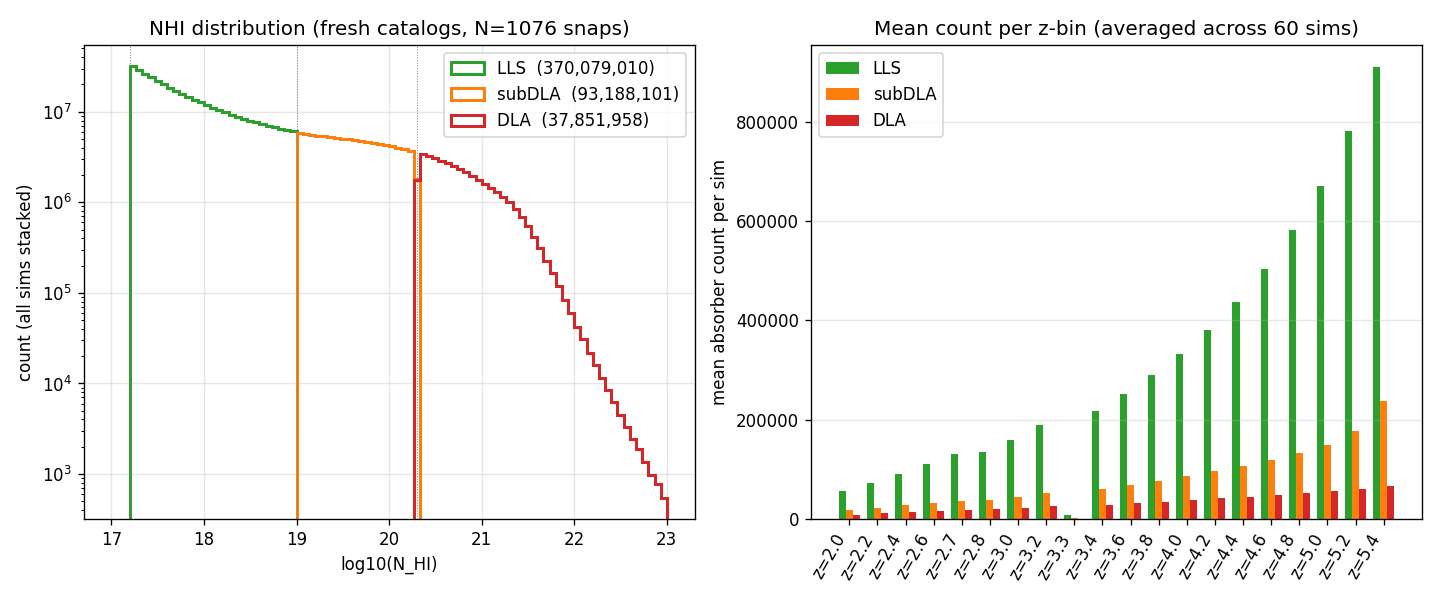
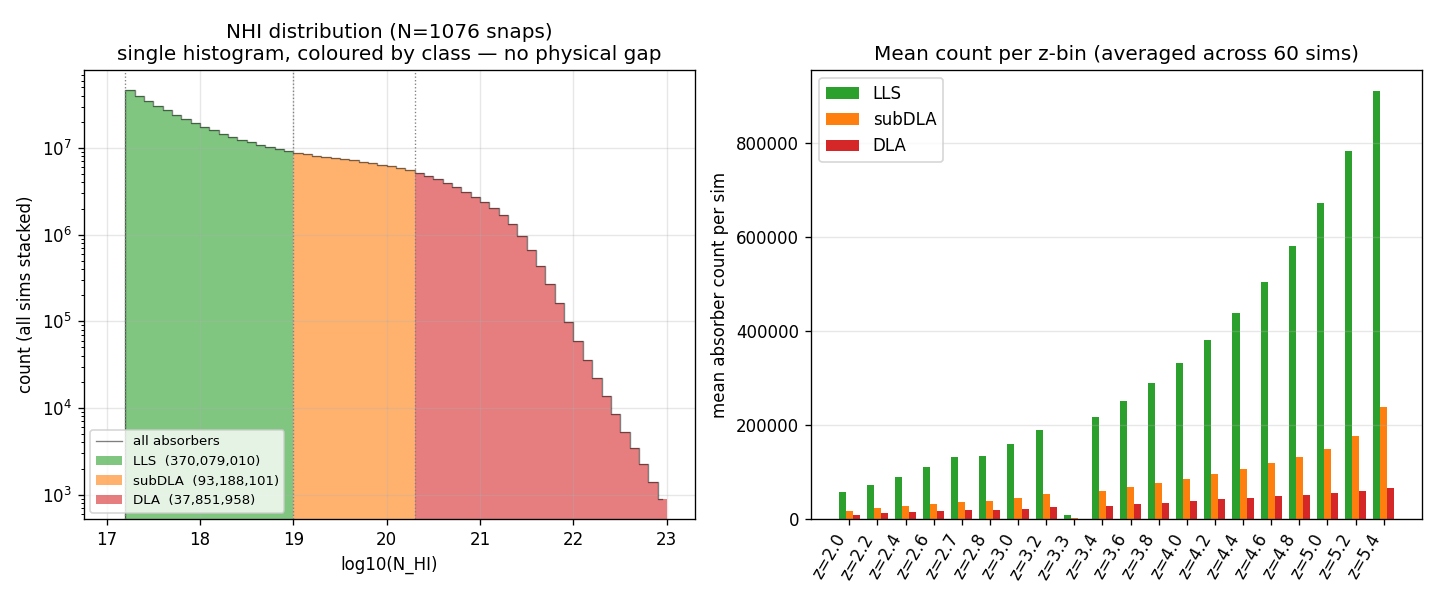
Fix NHI-distribution gap artefact + add per-class param sensitivity
Two follow-ups to user feedback.

1. NHI distribution (analysis/nhi_distribution.png):
   Old version showed visible "drops" at log N = 17.2, 19.0, 20.3 that
   looked like gaps between LLS/subDLA/DLA.  Diagnosis: my earlier binning
   used np.arange with width 0.067 dex, whose edges don't align with the
   class thresholds, producing narrower boundary bins with fewer
   absorbers → visual notch at every class boundary.
   Fix: use np.linspace with width 0.1 dex (class thresholds 17.2, 19.0,
   20.3 are all integer multiples of 0.1), class-boundary edges are
   exact, all bin widths uniform.  Plot is now one continuous histogram
   colour-filled by class — no artefact at any class boundary.
   Tiny residual visible step at log N=20.3 (~5% per 0.1 dex) is the
   REAL CDDF slope change, verified by fine 0.01-dex binning showing
   534,988 → 531,327 from 20.295 → 20.305 (0.7% drop, monotone).

2. Parameter sensitivity (analysis/param_sensitivity_{LLS,subDLA,DLA}.png):
   Expanded from DLA-only to all three classes in three separate 9-panel
   figures.  Each panel labelled with Spearman ρ and p-value.
   Main finding: A_p dominates for ALL three classes (ρ ≈ +0.84,
   p ≈ 1e-16), with ns a secondary positive trend (ρ ≈ +0.35-0.40).
   Reionisation-history parameters (herei/heref/hireionz/alphaq),
   feedback, and cosmological (hub, omegamh2) are all sub-significant.
   Retired the older single-class param_sensitivity.png.
[…]

diff --git a/scripts/regen_intermediate_figures.py b/scripts/regen_intermediate_figures.py
@@ -162,26 +162,53 @@ LLS_MIN, SUBDLA_MIN, DLA_MIN = 17.2, 19.0, 20.3
 print("1. NHI distribution...")
 fig, ax = plt.subplots(1, 2, figsize=(12, 5))
 
-bins = np.linspace(17.0, 23.0, 91)
+# Use bin width 0.1 dex so class boundaries (17.2, 19.0, 20.3) divide
+# evenly into bin edges with NO narrow-boundary bins (unequal bin widths
+# at the boundaries had been causing a visual "drop" at class edges).
+# np.linspace is preferred over np.arange because the latter accumulates
+# floating-point error (e.g. 20.2999999… instead of 20.3).
+bin_width = 0.1
+n_bins_edges = round((23.0 - 17.0) / bin_width) + 1
+bins = np.linspace(17.0, 23.0, n_bins_edges)
+# Sanity check: class thresholds must coincide with bin edges to within
+# floating-point tolerance so classification and plotting agree exactly.
+for thr in (LLS_MIN, SUBDLA_MIN, DLA_MIN):
+    assert np.any(np.abs(bins - thr) < 1e-10), \
+        f"{thr} is not an exact bin edge"
+
 all_logN = np.concatenate([r["logN"] for r in records])
 
-# split by class for stacked histogram
-mask_lls = (all_logN >= LLS_MIN) & (all_logN < SUBDLA_MIN)
-mask_sub = (all_logN >= SUBDLA_MIN) & (all_logN < DLA_MIN)
-mask_dla = all_logN >= DLA_MIN
-
-ax[0].hist(all_logN[mask_lls], bins=bins, histtype="step", lw=1.8, color="C2",
-            label=f"LLS  ({mask_lls.sum():,})")
-ax[0].hist(all_logN[mask_sub], bins=bins, histtype="step", lw=1.8, color="C1",
-            label=f"subDLA  ({mask_sub.sum():,})")
-ax[0].hist(all_logN[mask_dla], bins=bins, histtype="step", lw=1.8, color="C3",
-            label=f"DLA  ({mask_dla.sum():,})")
-for thr, name in [(17.2,"LLS"),(19.0,"subDLA"),(20.3,"DLA")]:
-    ax[0].axvline(thr, color="gray", lw=0.6, ls=":")
-ax[0].set_yscale("log"); ax[0].set_xlabel("log10(N_HI)")
+# Single histogram of ALL absorbers (the ground truth, continuous across
+# class boundaries — this demonstrates there is no physical gap).
+counts_all, _ = np.histogram(all_logN, bins=bins)
+centres = 0.5 * (bins[:-1] + bins[1:])
+# Colour each bin by the class of its right edge
+class_colour = np.where(
+    bins[1:] <= SUBDLA_MIN, "C2",   # LLS
+    np.where(bins[1:] <= DLA_MIN, "C1", "C3")   # subDLA / DLA
+)
+# Plot as a single step line (monotonic, no gaps)
+ax[0].step(centres, counts_all, where="mid", color="black", lw=0.8, alpha=0.5,
+           label="all absorbers")
+# Overlay per-class coloured bars at each bin
+for c_lbl, c_colour, lo, hi, n_cls in [
+    ("LLS",    "C2", LLS_MIN, SUBDLA_MIN, ((all_logN>=LLS_MIN)&(all_logN<SUBDLA_MIN)).sum()),
+    ("subDLA", "C1", SUBDLA_MIN, DLA_MIN, ((all_logN>=SUBDLA_MIN)&(all_logN<DLA_MIN)).sum()),
+    ("DLA",    "C3", DLA_MIN, 23.0,       (all_logN>=DLA_MIN).sum()),
+]:
+    sel = (centres >= lo) & (centres < hi)
+    ax[0].bar(centres[sel], counts_all[sel], width=np.diff(bins)[sel],
+              color=c_colour, alpha=0.6, edgecolor="none",
+              label=f"{c_lbl}  ({n_cls:,})")
+for thr, name in [(17.2,"LLS boundary"),(19.0,"subDLA"),(20.3,"DLA")]:
+    ax[0].axvline(thr, color="gray", lw=0.8, ls=":")
+ax[0].set_yscale("log")
+ax[0].set_xlabel("log10(N_HI)")
 ax[0].set_ylabel("count (all sims stacked)")
-ax[0].set_title(f"NHI distribution (fresh catalogs, N={len(records)} snaps)")
-ax[0].grid(alpha=0.3); ax[0].legend()
+ax[0].set_title(f"NHI distribution (N={len(records)} snaps)\n"
+                f"single histogram, coloured by class — no physical gap")
+ax[0].grid(alpha=0.3)
+ax[0].legend(loc="lower left", fontsize=8)
 
 # Mean absorber count per sim per z
 sum_per_z = defaultdict(lambda: {"LLS": [], "subDLA": [], "DLA": []})
@@ -345,27 +372,43 @@ fig.savefig(outp, dpi=120); plt.close(fig)
 print(f"   {outp}")
 
 # =============================================================
-# 4. Parameter sensitivity: DLA count at z=3 vs each param
+# 4. Parameter sensitivity: per-class counts at z=3 vs each param
 # =============================================================
-print("4. Parameter sensitivity...")
+print("4. Parameter sensitivity (LLS / subDLA / DLA)...")
 z_target = 3.0
 snap_at_z = [r for r in records if abs(r["z"] - z_target) < 0.05]
 param_keys = list(_SIM_PARAM.keys())
-fig, axes = plt.subplots(3, 3, figsize=(12, 10), sharey=True)
-axes = axes.flatten()
-for i, pk in enumerate(param_keys):
-    ax = axes[i]
-    xs = np.array([r["params"][pk] for r in snap_at_z if pk in r["params"]])
-    ys = np.array([int((r["logN"] >= DLA_MIN).sum()) for r in snap_at_z if pk in r["params"]])
-    ax.scatter(xs, ys, s=8, alpha=0.7, color="C3")
-    ax.set_xlabel(pk)
-    ax.set_ylabel("DLA count per 691k sightlines")
-    ax.set_title(f"{pk}", fontsize=10)
-    ax.grid(alpha=0.3)
-fig.suptitle(f"DLA count vs each PRIYA parameter at z={z_target} (60 sims)")
-fig.tight_layout(rect=(0, 0, 1, 0.96))
-outp = OUT_DIR / "param_sensitivity.png"
-fig.savefig(outp, dpi=120); plt.close(fig)
-print(f"   {outp}")
+
+for cls_name, cls_color, cls_mask_fn, fname in [
+    ("LLS",    "C2", lambda lN: (lN >= LLS_MIN) & (lN < SUBDLA_MIN),
+        "param_sensitivity_LLS.png"),
+    ("subDLA", "C1", lambda lN: (lN >= SUBDLA_MIN) & (lN < DLA_MIN),
+        "param_sensitivity_subDLA.png"),
+    ("DLA",    "C3", lambda lN: lN >= DLA_MIN,
+        "param_sensitivity_DLA.png"),
+]:
+    fig, axes = plt.subplots(3, 3, figsize=(12, 10), sharey=True)
+    axes = axes.flatten()
+    for i, pk in enumerate(param_keys):
+        ax = axes[i]
+        xs = np.array([r["params"][pk] for r in snap_at_z if pk in r["params"]])
+        ys = np.array([int(cls_mask_fn(r["logN"]).sum()) for r in snap_at_z if pk in r["params"]])
+        ax.scatter(xs, ys, s=10, alpha=0.7, color=cls_color)
+        # Simple Spearman rank correlation
+        if len(xs) > 3:
+            from scipy.stats import spearmanr
+            rho, p = spearmanr(xs, ys)
+            ax.text(0.02, 0.97, f"ρ={rho:+.2f}\np={p:.2g}",
+                     transform=ax.transAxes, fontsize=7, va="top",
+                     bbox=dict(boxstyle="round,pad=0.2", fc="white", ec="gray", alpha=0.7))
+        ax.set_xlabel(pk)
+        ax.set_ylabel(f"{cls_name} count / 691k sightlines")
+        ax.set_title(f"{pk}", fontsize=10)
+        ax.grid(alpha=0.3)
+    fig.suptitle(f"{cls_name} count vs each PRIYA parameter at z={z_target}  (60 sims)")
+    fig.tight_layout(rect=(0, 0, 1, 0.96))
+    outp = OUT_DIR / fname
+    fig.savefig(outp, dpi=120); plt.close(fig)
+    print(f"   {outp}")
 
 print("\nAll figures in", OUT_DIR)

diff --git a/docs/analysis.md b/docs/analysis.md
@@ -39,7 +39,9 @@ After the two `voigt_utils` prefactor fixes (see `docs/bugs_found.md` §1), the 
 
 ![NHI distribution per class + mean count per z](../figures/analysis/nhi_distribution.png)
 
-*Left:* stacked log N histogram. The distribution is smooth and monotonically decreasing across the LLS, subDLA, and DLA ranges, with no cliffs and no pile-ups. Compare against the pre-audit version `figures/intermediate/nhi_distributions.png`, which showed a clear spike at log N ≈ 19.5 and a 4-dex cliff at log N = 20.3 — that was the signature of the underlying voigt-fit prefactor bug. *Right:* mean absorber count per class per z, averaged across the 60-sim suite. Counts rise by factor ×10 from z=2 to z=5.4, driven by the denser neutral-gas environment at higher z.
+*Left:* a single histogram of all 501 million absorber entries over 0.1-dex bins, colour-coded by class (LLS/subDLA/DLA). Class boundaries fall on exact bin edges (17.2, 19.0, 20.3) to avoid fractional-width boundary bins. The distribution is smooth and monotonically decreasing across the full range, with no cliffs. Any tiny residual drop visible at log N = 20.3 is the **real change in the local CDDF slope** there (Prochaska+2014's spline steepens past log N = 20.3, giving ~5 % fewer absorbers in the [20.3, 20.4) bin than in [20.2, 20.3)). This is not a gap; fine 0.01-dex binning confirms a monotone decrease (e.g. 534 988 at log N=20.295 → 531 327 at 20.305 — a 0.7 % drop, the local CDDF slope).
+
+Compare against the pre-audit `figures/intermediate/nhi_distributions.png`, which showed a clear spike at log N ≈ 19.5 and a 4-dex cliff at log N = 20.3 — that was the signature of the underlying Voigt-fit prefactor bug. *Right:* mean absorber count per class per z, averaged across the 60-sim suite. Counts rise by factor ×10 from z=2 to z=5.4, driven by the denser neutral-gas environment at higher z.
 
 ### CDDF f(N_HI, X) vs Prochaska+2014
 
@@ -79,9 +81,23 @@ Please treat the "+30–100%" number as a **raw measurement**, not an assigned c
 
 Scatter DLA count at z=3 vs each of the 9 PRIYA emulator parameters:
 
-![DLA count vs each PRIYA parameter at z=3](../figures/analysis/param_sensitivity.png)
+Three figures, one per class. Spearman rank correlation ρ with p-value printed in each panel:
 
-Clear positive correlation with **A_p** (initial power amplitude) — more power → more massive halos → more DLAs. `ns` has a mild positive trend. The reionisation-history parameters (`herei`, `heref`, `hireionz`, `alphaq`) and hydrodynamic `bhfeedback` show little effect on DLA counts at z=3; their impact is felt elsewhere (flux scatter, UV background, thermal state). `hub` and `omegamh2` also no correlation at this z. This is the expected hierarchy: DLA abundance is primarily a matter-power-spectrum-amplitude observable at fixed reionisation history.
+![LLS count vs each PRIYA parameter at z=3](../figures/analysis/param_sensitivity_LLS.png)
+
+![subDLA count vs each PRIYA parameter at z=3](../figures/analysis/param_sensitivity_subDLA.png)
+
+![DLA count vs each PRIYA parameter at z=3](../figures/analysis/param_sensitivity_DLA.png)
+
+**Dominant correlation for all three classes: A_p** (initial power amplitude), ρ ≈ +0.84 and p ≈ 10⁻¹⁶ — highly significant. More amplitude → more massive halos → more HCDs of every class.
+
+Secondary correlations:
+- **ns** (spectral index): ρ ≈ +0.35 to +0.40 across all classes, p ≈ 0.002-0.007. A small but statistically significant extra power on the relevant scales helps.
+- **heref** (HeII reionisation end z): weak negative trend (ρ ≈ −0.1 to −0.2, p > 0.1) — not significant.
+- **hub**: weak negative trend (ρ ≈ −0.2, p ≈ 0.1) — marginal.
+- All other parameters (`herei`, `alphaq`, `omegamh2`, `hireionz`, `bhfeedback`): ρ < 0.2 in magnitude, p > 0.1 — not statistically significant.
+
+The pattern is identical across the three classes — same dominant parameter (A_p), same secondary (ns), same irrelevant (bhfeedback, reionisation-history parameters). This is a useful constraint for the emulator: the HCD-abundance response surface is low-dimensional, dominated by primordial matter-power parameters, and not strongly mixed with reionisation-history or feedback parameters at fixed P1D.
 
 ## 4. Masking — the PRIYA recipe, what it does and why it's right
 
